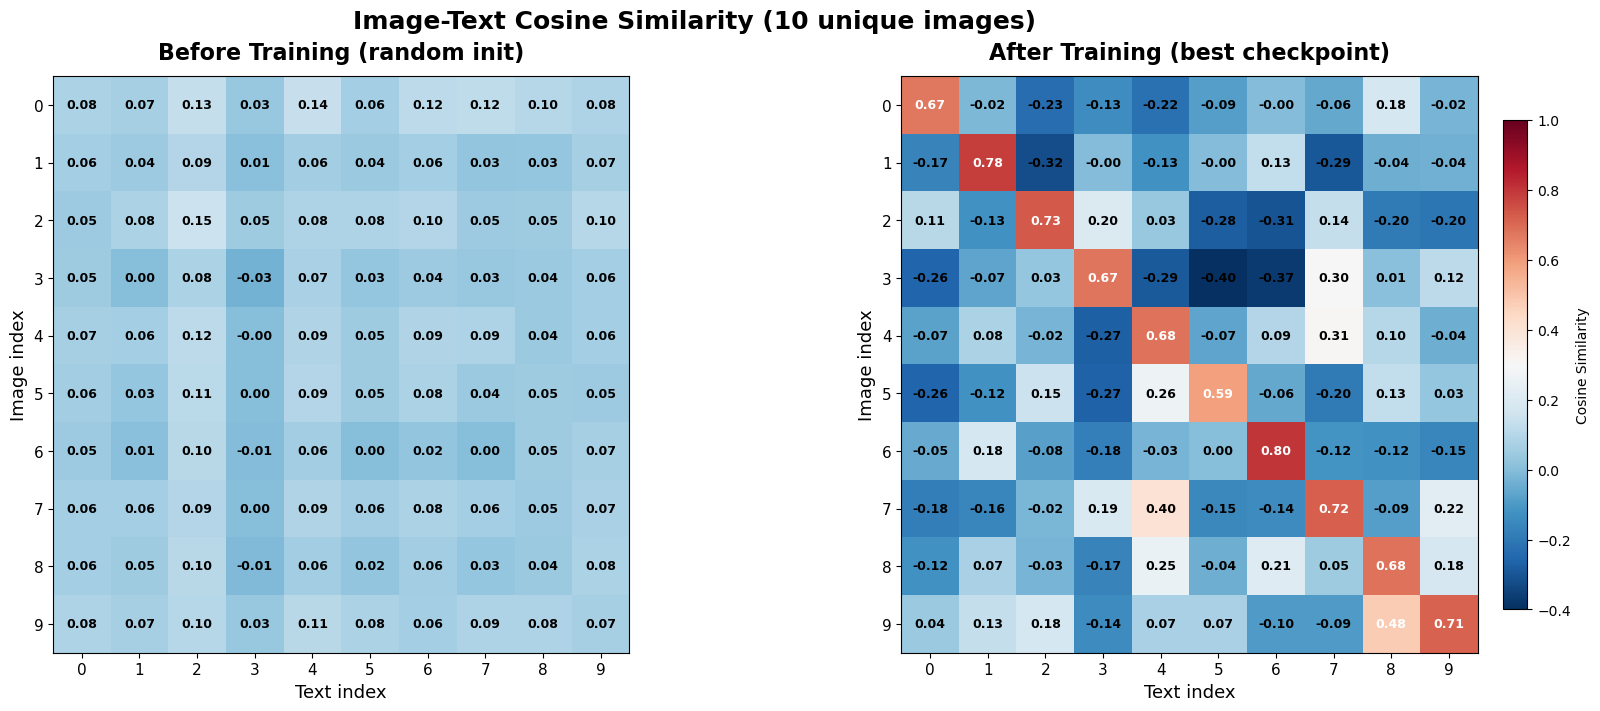
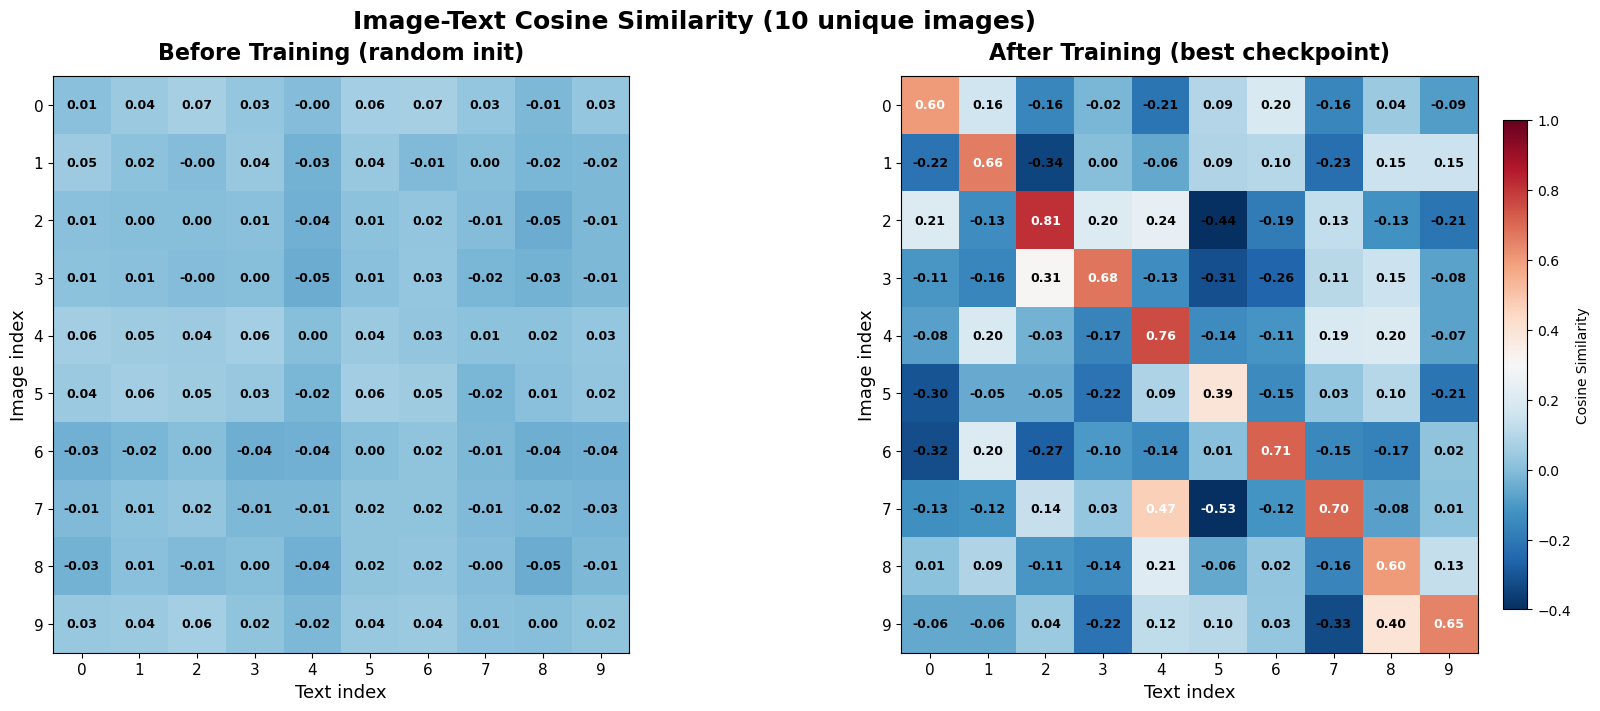
Update README with dataset details, training results, and add retrieval demo; update assets

diff --git a/README.md b/README.md
@@ -17,7 +17,7 @@ Text: "a dog running on the beach"
 
 ## Dataset
 
-[Flickr8k](https://www.kaggle.com/datasets/adityajn105/flickr8k) — 8,092 images with 5 human-written captions each (~40k image-text pairs total).
+[Flickr8k](https://www.kaggle.com/datasets/adityajn105/flickr8k) — 8,091 images with 5 human-written captions each (~40k image-text pairs total).
 
 The dataset is downloaded automatically via `kagglehub` when the notebook is first run. A [Kaggle account and API token](https://www.kaggle.com/settings/account) are required.
 
@@ -46,44 +46,49 @@ The dataset is downloaded automatically via `kagglehub` when the notebook is fir
 
 | Epoch | Val Loss | Checkpoint |
 |:---:|:---:|:---:|
-| 1 | 0.7440 | saved |
-| 2 | 0.5232 | saved |
-| 3 | 0.4639 | saved |
-| **4** | **0.4059** | **saved ← best** |
-| 5 | 0.4071 | |
-| 6 | 0.4091 | |
-| 7 | 0.4568 | |
-| 8 | 0.4479 | |
-| 9 | 0.4275 | |
-| 10 | 0.4300 | |
+| 1 | 0.7584 | saved |
+| 2 | 0.5511 | saved |
+| 3 | 0.4610 | saved |
+| **4** | **0.4237** | **saved ← best** |
+| 5 | 0.4374 | |
+| 6 | 0.4267 | |
+| 7 | 0.4376 | |
+| 8 | 0.4318 | |
+| 9 | 0.4359 | |
+| 10 | 0.4491 | |
 
-Best validation loss: **0.4059** at epoch 4. The model shows mild overfitting from epoch 5 onward (train loss ~0.13 vs val loss ~0.43), which is expected given the small dataset and large pretrained encoders.
-
-Temperature decayed from 0.0698 → 0.0456 over training as the model sharpened its similarity distributions.
+Best validation loss: **0.4237** at epoch 4. The model shows mild overfitting from epoch 5 onward (train loss ~0.13 vs val loss ~0.43), which is expected given the small dataset and large pretrained encoders. Temperature decayed from 0.0698 → ~0.046 over training as the model sharpened its similarity distributions.
 
 ## Visualization
 
 ### Similarity Matrix
 
-Cosine similarities between 10 unique image-text pairs, using the best checkpoint. A strong diagonal confirms that matched pairs score highest — the model correctly associates each image with its caption over all other captions in the set.
+Cosine similarities between 10 unique image-text pairs, using the best checkpoint. A strong diagonal in the "After Training" panel confirms that each image scores highest against its own caption — the model has successfully learned cross-modal alignment.
 
 ![Similarity Matrix](assets/similarity_matrix.png)
 
 ### UMAP Projection
 
-200 image and text embeddings projected from 256-d to 2-d with UMAP (cosine metric). Blue circles are image embeddings, red triangles are text embeddings. Gray lines connect matching pairs — shorter lines indicate tighter alignment.
+200 image and text embeddings projected from 256-d to 2-d with UMAP (cosine metric). Blue circles are image embeddings, red triangles are text embeddings. Gray lines connect matching pairs — shorter lines indicate tighter alignment between an image and its caption.
 
 ![UMAP Embeddings](assets/umap_embeddings.png)
+
+### Retrieval Demo
+
+Top-5 retrieved images for five curated queries. The model encodes the text query, computes cosine similarity against all 8,091 pre-embedded images, and returns the closest matches. Similarity scores are shown below each image.
+
+![Retrieval Demo](assets/retrieval_demo.png)
 
 ## Project Structure
 
 ```
 crossmodal-retrieval/
-├── train.ipynb        # Single self-contained notebook (data, models, training, visualization)
+├── train.ipynb        # Single self-contained notebook (data, models, training, visualization, demo)
 ├── requirements.txt   # Python dependencies
-├── assets/            # Output plots for README
+├── assets/            # Output plots
 │   ├── similarity_matrix.png
-│   └── umap_embeddings.png
+│   ├── umap_embeddings.png
+│   └── retrieval_demo.png
 └── checkpoints/       # Saved model weights (gitignored)
     └── best_model.pt
 ```
@@ -103,6 +108,7 @@ All code lives in `train.ipynb`. Cell structure:
 | 19 | Training functions |
 | 21 | Training loop with checkpointing |
 | 23–25 | Visualization (similarity matrix heatmap, UMAP) |
+| 27–28 | Retrieval demo (image index + query grid) |
 
 ## Requirements
 
